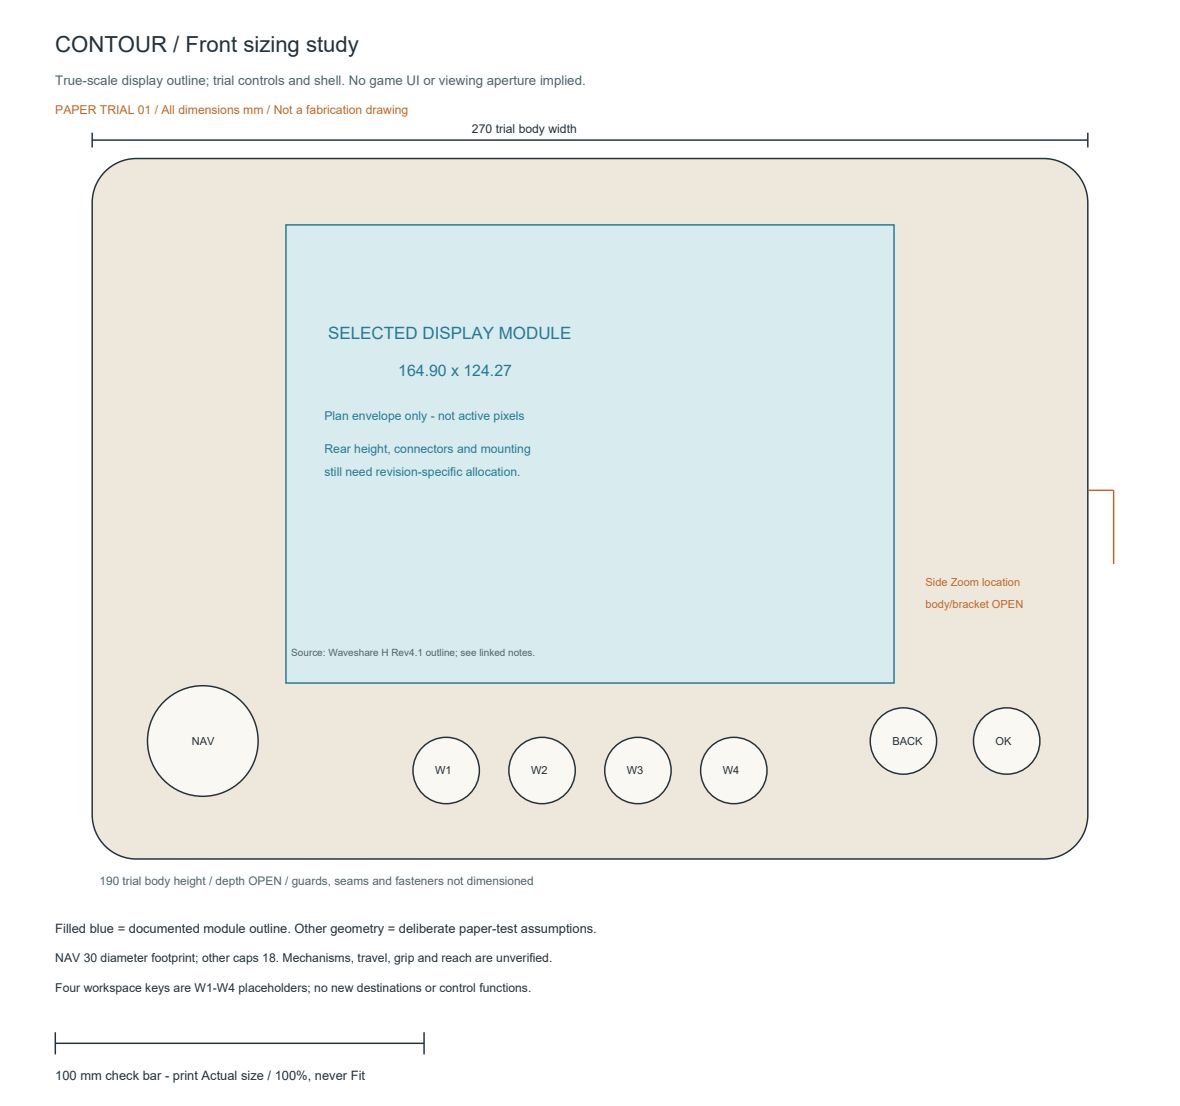
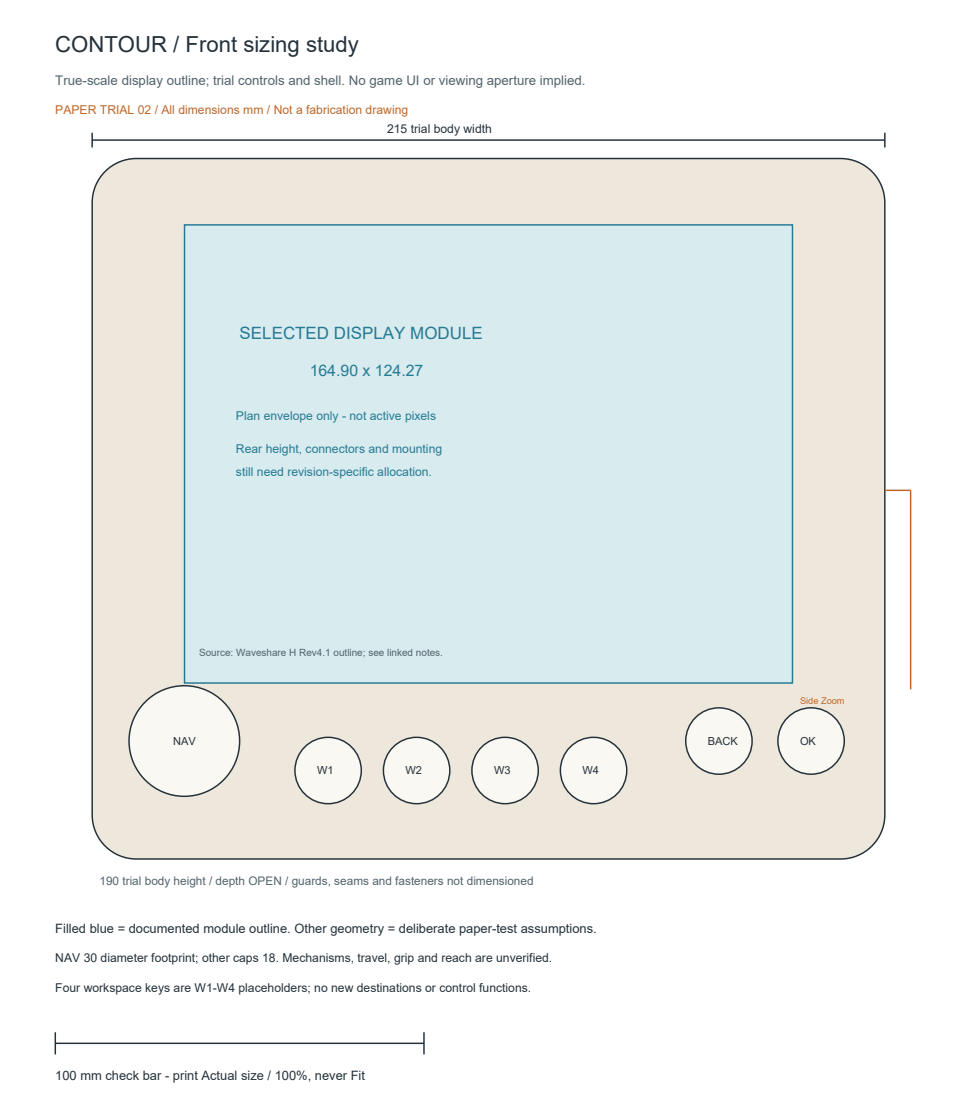
Restore screen-dominant Contour proportions

diff --git a/design/lab-controls/contour-sizing.py b/design/lab-controls/contour-sizing.py
@@ -7,10 +7,10 @@ from reportlab.lib.colors import HexColor
 from reportlab.lib.units import mm
 
 OUTPUT = Path(__file__).resolve().parent
-PAGE_W, PAGE_H = 320, 300
+PAGE_W, PAGE_H = 265, 300
 BODY_X, BODY_Y = 25, 43
-BODY_W, BODY_H = 270, 190
-DISPLAY = (52.55, 18, 164.9, 124.27)
+BODY_W, BODY_H = 215, 190
+DISPLAY = (25.05, 18, 164.9, 124.27)
 INK, MUTED = '#24313a', '#52636b'
 CREAM, BLUE, ORANGE = '#eee8dc', '#257a94', '#bd682a'
 
@@ -46,12 +46,12 @@ def common(title, subtitle):
     rect(drawing, 0, 0, PAGE_W, PAGE_H, '#ffffff', '#ffffff')
     text(drawing, 15, 14, title, 6)
     text(drawing, 15, 23, subtitle, 3.6, MUTED)
-    text(drawing, 15, 31, 'PAPER TRIAL 01 / All dimensions mm / Not a fabrication drawing', 3.3, ORANGE)
+    text(drawing, 15, 31, 'PAPER TRIAL 02 / All dimensions mm / Not a fabrication drawing', 3.3, ORANGE)
     rect(drawing, BODY_X, BODY_Y, BODY_W, BODY_H, CREAM, radius=12)
-    line(drawing, 25, 38, 295, 38)
+    line(drawing, 25, 38, 240, 38)
     line(drawing, 25, 36, 25, 40)
-    line(drawing, 295, 36, 295, 40)
-    text(drawing, 128, 36, '270 trial body width', 3.3)
+    line(drawing, 240, 36, 240, 40)
+    text(drawing, 105, 36, '215 trial body width', 3.3)
     text(drawing, 27, 240, '190 trial body height / depth OPEN / guards, seams and fasteners not dimensioned', 3.2, MUTED)
     line(drawing, 15, 283, 115, 283)
     for x in (15, 115):
@@ -63,41 +63,39 @@ def common(title, subtitle):
 front = common('CONTOUR / Front sizing study', 'True-scale display outline; trial controls and shell. No game UI or viewing aperture implied.')
 x, y, w, h = DISPLAY
 rect(front, BODY_X+x, BODY_Y+y, w, h, '#d8ebee', BLUE)
-text(front, 89, 92, 'SELECTED DISPLAY MODULE', 4.6, BLUE)
-text(front, 108, 102, '164.90 x 124.27', 4.3, BLUE)
-text(front, 88, 114, 'Plan envelope only - not active pixels', 3.3, BLUE)
-text(front, 88, 123, 'Rear height, connectors and mounting', 3.3, BLUE)
-text(front, 88, 129, 'still need revision-specific allocation.', 3.3, BLUE)
-text(front, 79, 178, 'Source: Waveshare H Rev4.1 outline; see linked notes.', 2.7, MUTED)
-circle(front, BODY_X+30, BODY_Y+158, 15, 'NAV')
-for center, label in ((96,'W1'), (122,'W2'), (148,'W3'), (174,'W4')):
+text(front, 65, 92, 'SELECTED DISPLAY MODULE', 4.6, BLUE)
+text(front, 84, 102, '164.90 x 124.27', 4.3, BLUE)
+text(front, 64, 114, 'Plan envelope only - not active pixels', 3.3, BLUE)
+text(front, 64, 123, 'Rear height, connectors and mounting', 3.3, BLUE)
+text(front, 64, 129, 'still need revision-specific allocation.', 3.3, BLUE)
+text(front, 54, 178, 'Source: Waveshare H Rev4.1 outline; see linked notes.', 2.7, MUTED)
+circle(front, BODY_X+25, BODY_Y+158, 15, 'NAV')
+for center, label in ((64,'W1'), (88,'W2'), (112,'W3'), (136,'W4')):
     circle(front, BODY_X+center, BODY_Y+166, 9, label)
-circle(front, BODY_X+220, BODY_Y+158, 9, 'BACK')
-circle(front, BODY_X+248, BODY_Y+158, 9, 'OK')
-line(front, 295, 133, 302, 133, ORANGE)
-line(front, 302, 133, 302, 153, ORANGE)
-text(front, 251, 159, 'Side Zoom location', 3, ORANGE)
-text(front, 251, 165, 'body/bracket OPEN', 3, ORANGE)
+circle(front, BODY_X+170, BODY_Y+158, 9, 'BACK')
+circle(front, BODY_X+195, BODY_Y+158, 9, 'OK')
+line(front, 240, 133, 247, 133, ORANGE)
+line(front, 247, 133, 247, 187, ORANGE)
+text(front, 217, 191, 'Side Zoom', 2.5, ORANGE)
 text(front, 15, 253, 'Filled blue = documented module outline. Other geometry = deliberate paper-test assumptions.', 3.5)
 text(front, 15, 261, 'NAV 30 diameter footprint; other caps 18. Mechanisms, travel, grip and reach are unverified.', 3.3)
 text(front, 15, 269, 'Four workspace keys are W1-W4 placeholders; no new destinations or control functions.', 3.3)
 
 rear = common('CONTOUR / Rear service reservations', 'Looking from the rear: X is mirrored. These are projections, not usable same-plane packing.')
-rect(rear, 40, 58, 240, 160, None, ORANGE, True, 5)
+rect(rear, 40, 58, 185, 160, None, ORANGE, True, 5)
 text(rear, 44, 55, '15 perimeter study allowance - provisional', 3.2, ORANGE)
 rect(rear, BODY_X+BODY_W-x-w, BODY_Y+y, w, h, None, BLUE, True)
-text(rear, 90, 89, 'DISPLAY REAR PROJECTION', 4, BLUE)
-text(rear, 92, 98, 'Do not count this as empty volume.', 3.3, BLUE)
-text(rear, 91, 116, 'Electronics support / board allocation', 3.8)
-text(rear, 93, 126, 'OPEN until actual component heights,', 3.2)
-text(rear, 93, 133, 'mounts and connector exits are known.', 3.2)
-rect(rear, 42, 191, 236, 26, None, MUTED, True)
-text(rear, 81, 202, 'CONTROL BACKS + HARNESS ROUTING', 3.5)
-text(rear, 84, 210, 'Mechanism depth / wire bends / access OPEN', 3)
+text(rear, 66, 89, 'DISPLAY REAR PROJECTION', 4, BLUE)
+text(rear, 68, 98, 'Do not count this as empty volume.', 3.3, BLUE)
+text(rear, 67, 116, 'Electronics support / board allocation', 3.8)
+text(rear, 69, 126, 'OPEN until actual component heights,', 3.2)
+text(rear, 69, 133, 'mounts and connector exits are known.', 3.2)
+rect(rear, 42, 191, 181, 26, None, MUTED, True)
+text(rear, 57, 202, 'CONTROL BACKS + HARNESS ROUTING', 3.5)
+text(rear, 60, 210, 'Mechanism depth / wire bends / access OPEN', 3)
 line(rear, 25, 133, 18, 133, ORANGE)
-text(rear, 43, 156, 'Side Zoom', 3, ORANGE)
-text(rear, 43, 163, 'bracket OPEN', 3, ORANGE)
-text(rear, 15, 251, '240 x 160 dashed region is an allocation boundary, NOT a free PCB area or proven clearance.', 3.4)
+text(rear, 63, 156, 'Side Zoom bracket OPEN', 3, ORANGE)
+text(rear, 15, 251, '185 x 160 dashed region is an allocation boundary, NOT a free PCB area or proven clearance.', 3.4)
 text(rear, 15, 259, 'Open passive lid > reach/disconnect harnesses > remove support > access front retainers.', 3.4)
 text(rear, 15, 267, 'Board, energy, antenna, thermal, fastener and cable envelopes remain unallocated.', 3.4)
 
@@ -109,4 +107,4 @@ for name, drawing in pages:
     renderPDF.draw(drawing, pdf, 0, 0)
     pdf.showPage()
 pdf.save()
-print('Wrote two editable SVGs and two-page 320 x 300 mm paper-study PDF.')
+print('Wrote two editable SVGs and two-page 265 x 300 mm paper-study PDF.')

diff --git a/design/lab-controls/concepts.md b/design/lab-controls/concepts.md
@@ -42,19 +42,19 @@ The next physical proof is a roomy layout showing these envelopes, screw/tool pa
 
 Hardware review of this assembly proposal found no remaining blocking contradiction in the opening/disconnection sequence. This accepts the proposal for layout development only; component envelopes, physical access and fabrication remain unverified.
 
-### Paper sizing trial 01
+### Paper sizing trial 02
 
 [Two-page actual-size PDF](contour-sizing.pdf) · [Editable front SVG](contour-sizing-front.svg) · [Editable rear SVG](contour-sizing-rear.svg) · [Rebuild source](contour-sizing.py)
 
-The trial uses a **270 × 190 mm** continuous body with a 12 mm corner radius, all provisional. Its purpose is to compare screen/hand/control proportions and preserve generous first-build space, not select the final case. The selected display's **164.90 × 124.27 mm module outline** comes from the [manufacturer H Rev4.1 drawing](https://www.waveshare.com/img/devkit/LCD/7HP/Exterior-Size.jpg); it is not an active image aperture. No housing depth is assigned.
+The trial uses a **215 × 190 mm** continuous body with a 12 mm corner radius, all provisional. Its purpose is to compare screen/hand/control proportions and preserve generous first-build space, not select the final case. The selected display's **164.90 × 124.27 mm module outline** comes from the [manufacturer H Rev4.1 drawing](https://www.waveshare.com/img/devkit/LCD/7HP/Exterior-Size.jpg); it is not an active image aperture. No housing depth is assigned.
 
-Body origin is top-left in the front view. Display origin: (52.55, 18). Proposed control centers: navigation (30, 158), Back (220, 158), Confirm (248, 158), four workspace keys (96, 166), (122, 166), (148, 166), (174, 166). Navigation uses a 30 mm circular *footprint reservation*, not a proposed circular replacement for the cross; other cap reservations are 18 mm. Mechanism bodies and thumb reach are unverified. Side Zoom is only a location cue at y=95; its bracket and body remain unallocated.
+Body origin is top-left in the front view. Display origin: (25.05, 18). Proposed control centers: navigation (25, 158), Back (170, 158), Confirm (195, 158), four workspace keys (64, 166), (88, 166), (112, 166), (136, 166). Navigation uses a 30 mm circular *footprint reservation*, not a proposed circular replacement for the cross; other cap reservations are 18 mm. Mechanism bodies and thumb reach are unverified. Side Zoom is only a location cue at y=95; its bracket and body remain unallocated.
 
-The rear view mirrors X. Its 15 mm perimeter study allowance leaves a 240 × 160 mm allocation boundary, **not vacant PCB area**. The display rear projection and unknown control backs overlap that plan region at unresolved depths. Do not sum this area as available capacity. Board heights, connectors, wiring, energy, antenna, thermal and tool paths must be added before a packing claim.
+The rear view mirrors X. Its 15 mm perimeter study allowance leaves a 185 × 160 mm allocation boundary, **not vacant PCB area**. The display rear projection and unknown control backs overlap that plan region at unresolved depths. Do not sum this area as available capacity. Board heights, connectors, wiring, energy, antenna, thermal and tool paths must be added before a packing claim.
 
-Print at 100% / Actual size and verify the 100 mm check bar. PDF pages are 320 × 300 mm: tile/poster-print on smaller paper rather than shrinking. This is an inert paper check, not a fabrication template. Screen/buttons/cables must ultimately be checked with physical mock parts and hand access while supported in the station.
+Print at 100% / Actual size and verify the 100 mm check bar. PDF pages are 265 × 300 mm: tile/poster-print on smaller paper rather than shrinking. This is an inert paper check, not a fabrication template. Screen/buttons/cables must ultimately be checked with physical mock parts and hand access while supported in the station.
 
-Hardware Design inspected both rendered pages and source coordinates, accepting the geometry and evidence labels for a paper sizing study. Its one label-overlap correction is incorporated. No ergonomic, internal-fit or supported-play approval is implied. The source was regenerated and the PDF page dimensions checked at 320 × 300 mm.
+Owner rejected the preceding 270 mm width because it diluted the settled screen-dominant proportions. Trial 02 restores 25.05 mm beside the module, using a 215 mm trial body width; it does not establish an approved final dimension. Extra electronics capacity must first be explored through depth and layout, not automatic face widening. Hardware reviewed trial 01 only; that review does not approve these revised control positions. Coordinator inspected regenerated front/rear exports. No ergonomic, internal-fit or supported-play approval is implied.
 
 ![Front paper sizing trial](contour-sizing-1.png)
 
@@ -196,3 +196,4 @@ Owner requires subsequent enclosure renders to originate from a dimensionally an
 Model the display module, glass and visible aperture as distinct boundaries; use verified manufacturer dimensions where available. Mark proposed housing dimensions, control caps/back clearance, printer mounting/service volume and reader allowance as proposals. Keep one coordinate system and explicit face angle. Resolve transitions between the reclined main face and printer bay, wall thickness, corner radii, groove width/depth, rear access and base contact in geometry. Material assignments belong to model surfaces; shading must not invent recesses or seams.
 
 Before a beauty render, inspect front, side, top and section views from that same model, check component intersections and opening/service paths, then obtain focused independent hardware review. Publish the model, parameter/source table and matching exports together in Git. A dimensional prototype is not manufacturing-ready CAD or proof of ergonomic, thermal, RF or printer performance. No further generated-image approximation of the case is a substitute for this step.
+

diff --git a/specs/devices.md b/specs/devices.md
@@ -29,7 +29,7 @@ The next visual divergence follows this handheld-plus-home-station experience. *
 
 Owner selected **Contour** as the promising architecture for convergence, with a substantial correction: remove its controller-like handles/narrow waist and recover the rugged, bulky family character of the Probe and Companion, including protective bumpers. Small-batch 3D printing and owner assembly are primary constraints. Yoke and Keel are not proceeding because their construction/parts burden and family mismatch do not suit this project. The selection does not approve the rendered shell as manufacturable. Establish simple shell separation, fastener access, display/control retention and feasible bumper construction before refining appearance; bumper material and fabrication method remain open.
 
-First-build packaging must accommodate electronics sourced and designed by the project, including larger PCBs, connectors and discrete wiring where needed. Dense integration is not a first-iteration goal. Assembly, reopening and service must be straightforward with common tools, with room to route and disconnect wiring and reach fasteners. Size the enclosure from actual component and wiring envelopes rather than forcing electronics into render proportions. Space optimization belongs to later iterations; additional volume is acceptable, subject to the handheld and supported-play requirements.
+First-build packaging must accommodate electronics sourced and designed by the project, including larger PCBs, connectors and discrete wiring where needed. Dense integration is not a first-iteration goal. Assembly, reopening and service must be straightforward with common tools, with room to route and disconnect wiring and reach fasteners. Size the enclosure from actual component and wiring envelopes rather than forcing electronics into render proportions. Space optimization belongs to later iterations; additional volume is acceptable, subject to the handheld and supported-play requirements. Preserve the settled screen-dominant front proportions: roomier electronics do not authorize widening the face around the display. Explore depth and component arrangement first; any unavoidable width tradeoff must be made explicit.
 
 Owner direction: a more capable Linux-class Lab, an nRF52840 Probe and an ESP32-S3 Companion. The Lab display and Companion board/display below are selected for preliminary development; the Probe panel remains a candidate. Sensor sets, battery configurations and production parts remain open. Compare Lab SBC/compute-module options against concurrent graphics, local rules/generation, storage and peripheral workloads. Cloud remains authoritative for synchronized durable player state; exact local/offline acceptance policies remain open.
 
@@ -86,5 +86,6 @@ Owner direction, 28 September 2026: explore a playful dedicated Lab instrument w
 The [four instrument concepts](../design/lab-controls/concepts.md) and [layout sheet](../design/lab-controls/four-concepts.png) compare genome exploration, specimen inspection, research and workspace switching. No winner is selected. Proposals must make the relationship between physical action and screen response visible, distinguish browsing/adjustment from costly commitment, and preserve sample/context on return. The prior minimalist one-knob/two-button recommendation is superseded as the design objective; its comparison image is retained as reference, not an approved configuration.
 
 Final control count, grouping, functions, spacing and parts remain open. No live input-map change, purchase or enclosure/PCB commitment is implied. A future physical comparison must assess reach, tactile distinction, accidental inputs, screen/paper-path obstruction and base stability; no ergonomic measurements have been made.
+
 
 
